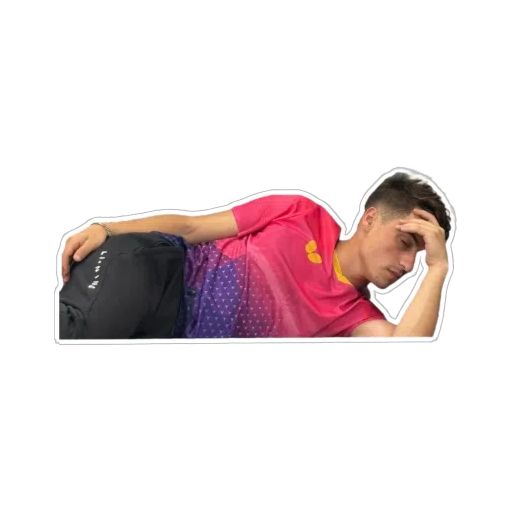
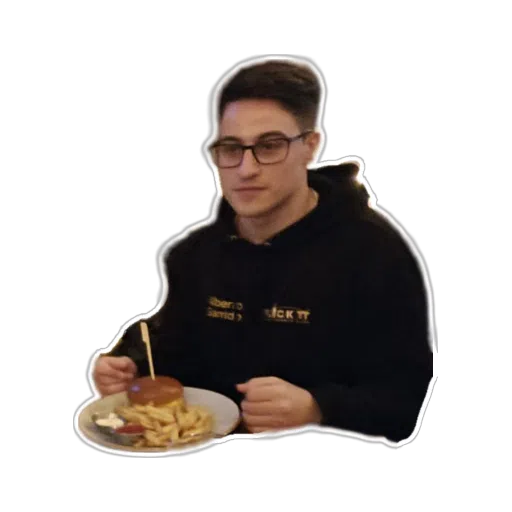
Add Martin's drawer sticker and import the remaining sticker artwork
Register martin-drawer in the treasure hunt sticker registry and hide it in
Martin's coach profile drawer, matching the existing Alberto and Lis stickers.
Also add the rest of the WhatsApp sticker pack artwork (404 variants, member
and coach stickers) to src/assets/stickers so upcoming placements can reference
them, and refresh a few existing files.

Claude-Session: https://claude.ai/code/session_01XJzsafUgTFqgb6Uwg8ijqe

diff --git a/src/treasureHunt.ts b/src/treasureHunt.ts
@@ -1,6 +1,7 @@
 import type { ImageMetadata } from "astro";
 import albertoDrawer from "./assets/stickers/alberto-drawer.webp";
 import lisDrawer from "./assets/stickers/lis-drawer.webp";
+import martinDrawer from "./assets/stickers/martin-drawer.webp";
 
 /**
  * Treasure hunt stickers (WhatsApp sticker WebP files in src/assets/stickers). Each entry is one
@@ -10,6 +11,7 @@ import lisDrawer from "./assets/stickers/lis-drawer.webp";
 export const STICKERS = {
   "alberto-drawer": { img: albertoDrawer, alt: "Treasure hunt sticker: Alberto" },
   "lis-drawer": { img: lisDrawer, alt: "Treasure hunt sticker: Lis" },
+  "martin-drawer": { img: martinDrawer, alt: "Treasure hunt sticker: Martin" },
 } as const satisfies Record<string, { img: ImageMetadata; alt: string }>;
 
 export type StickerId = keyof typeof STICKERS;
